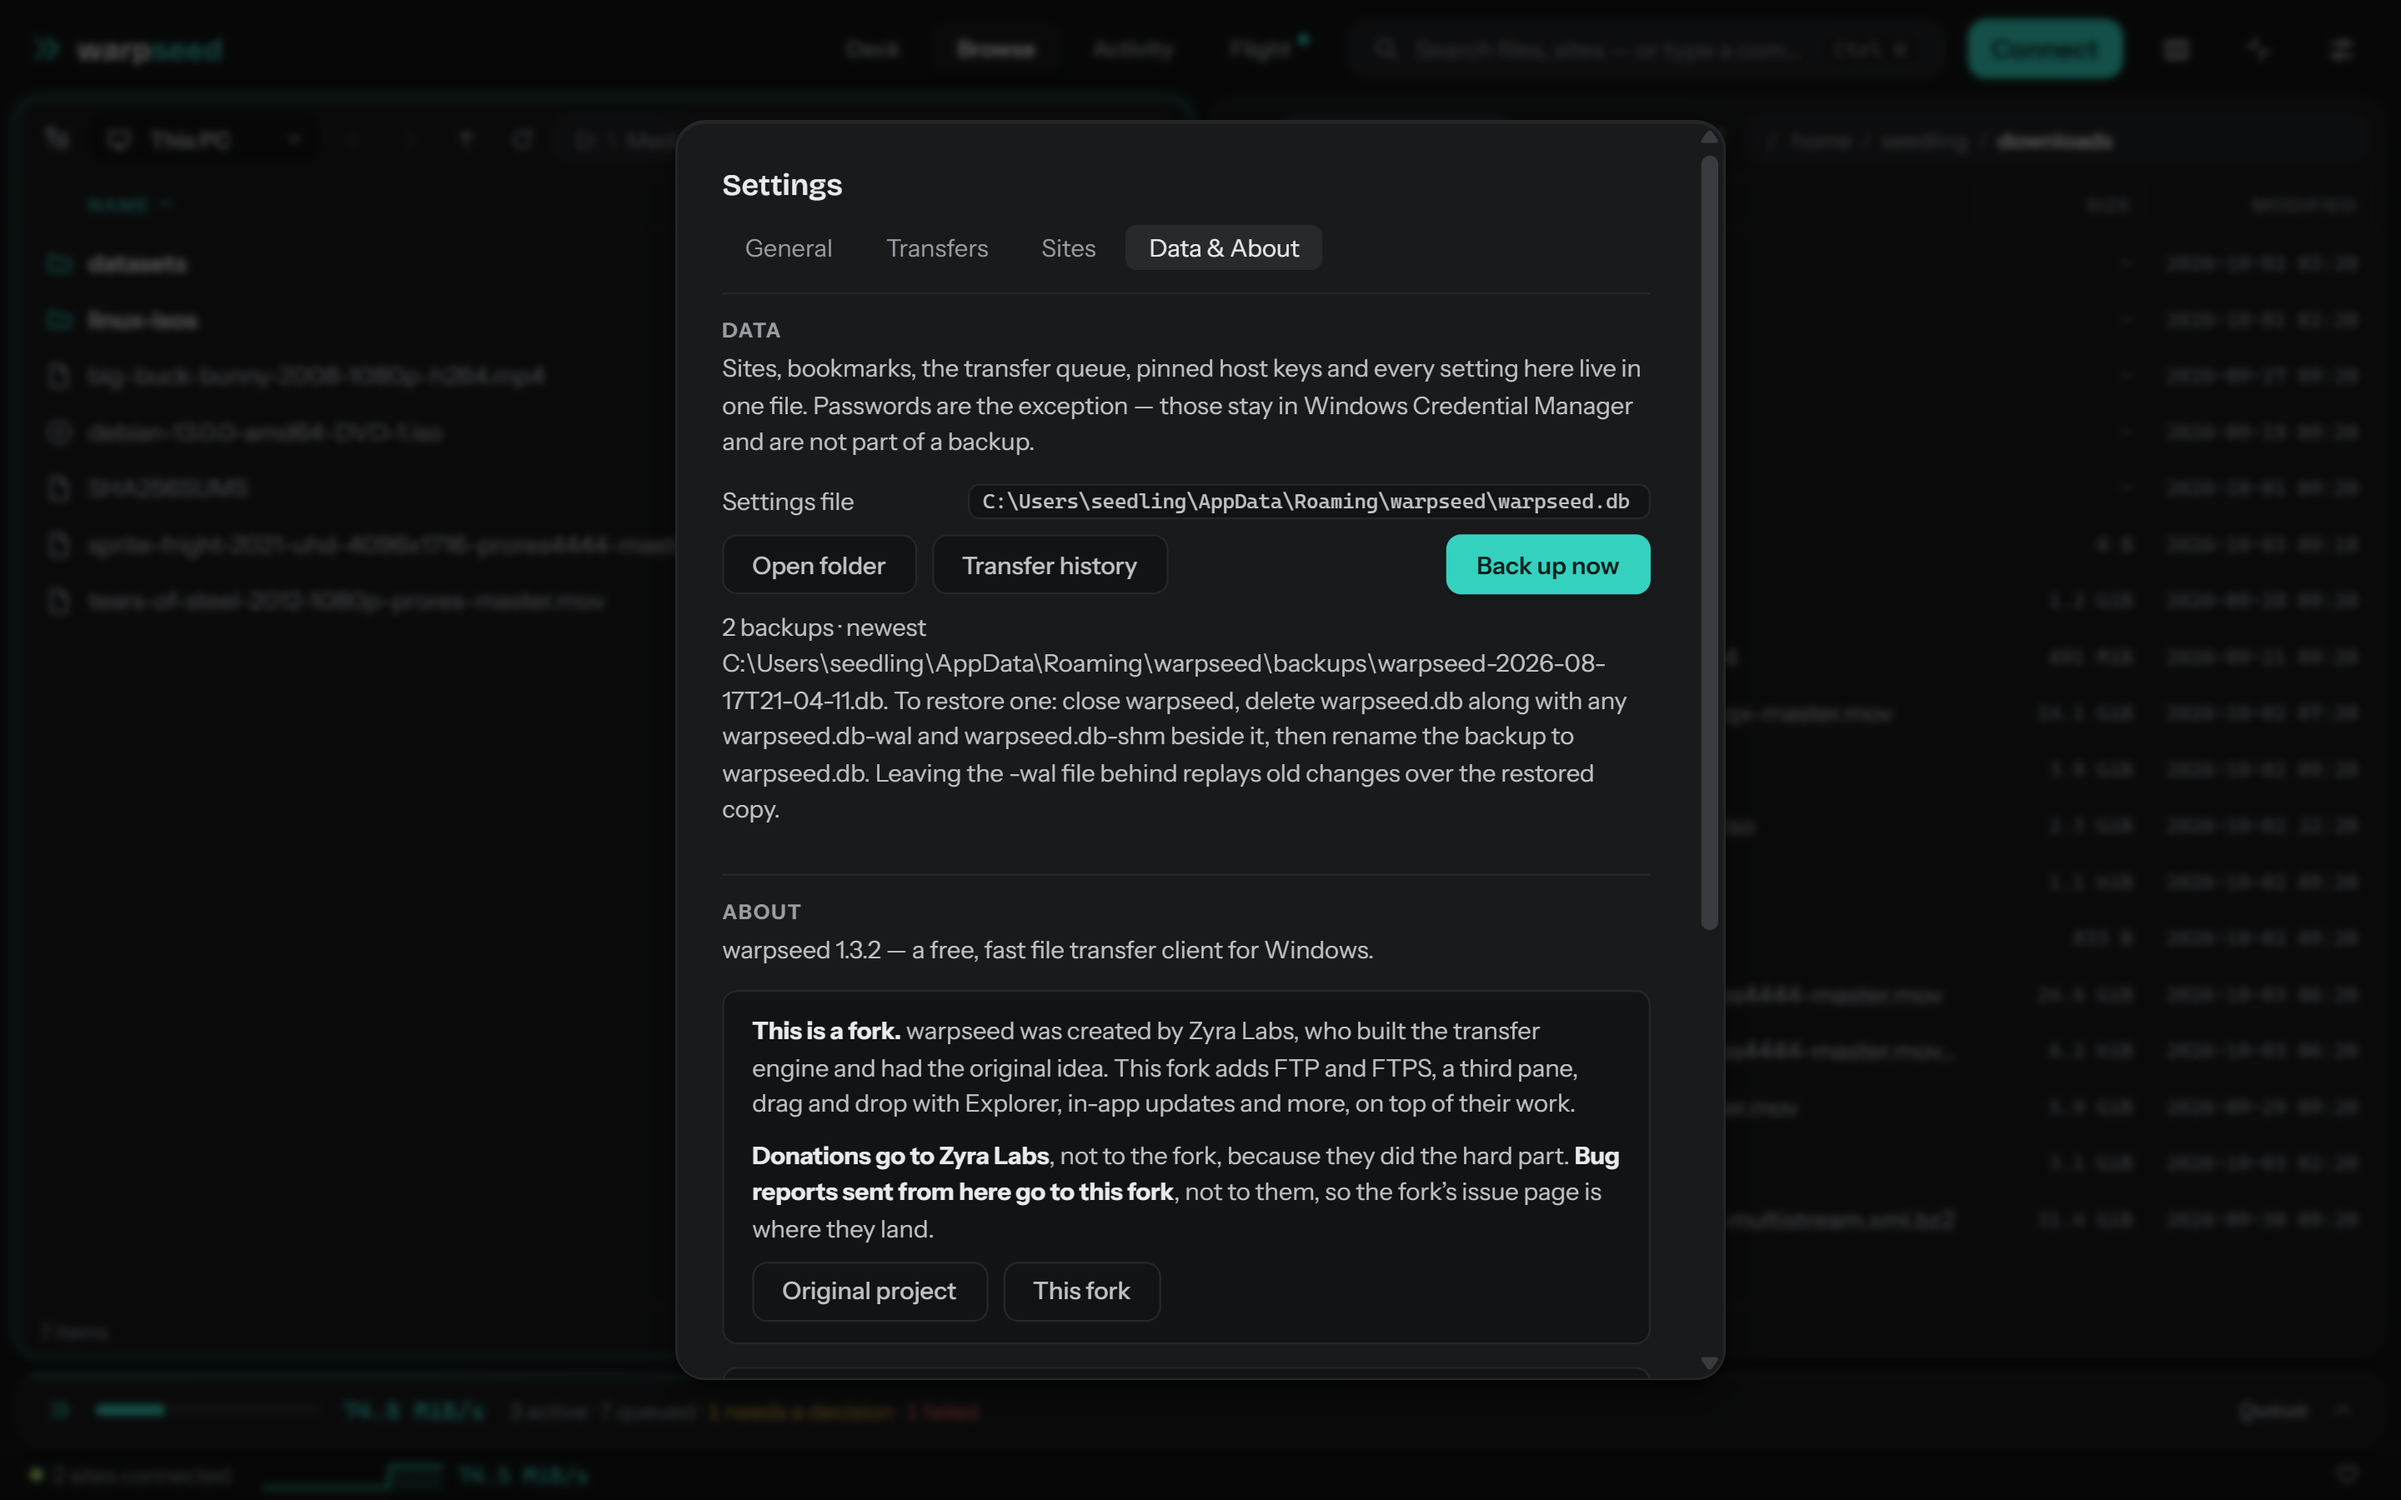
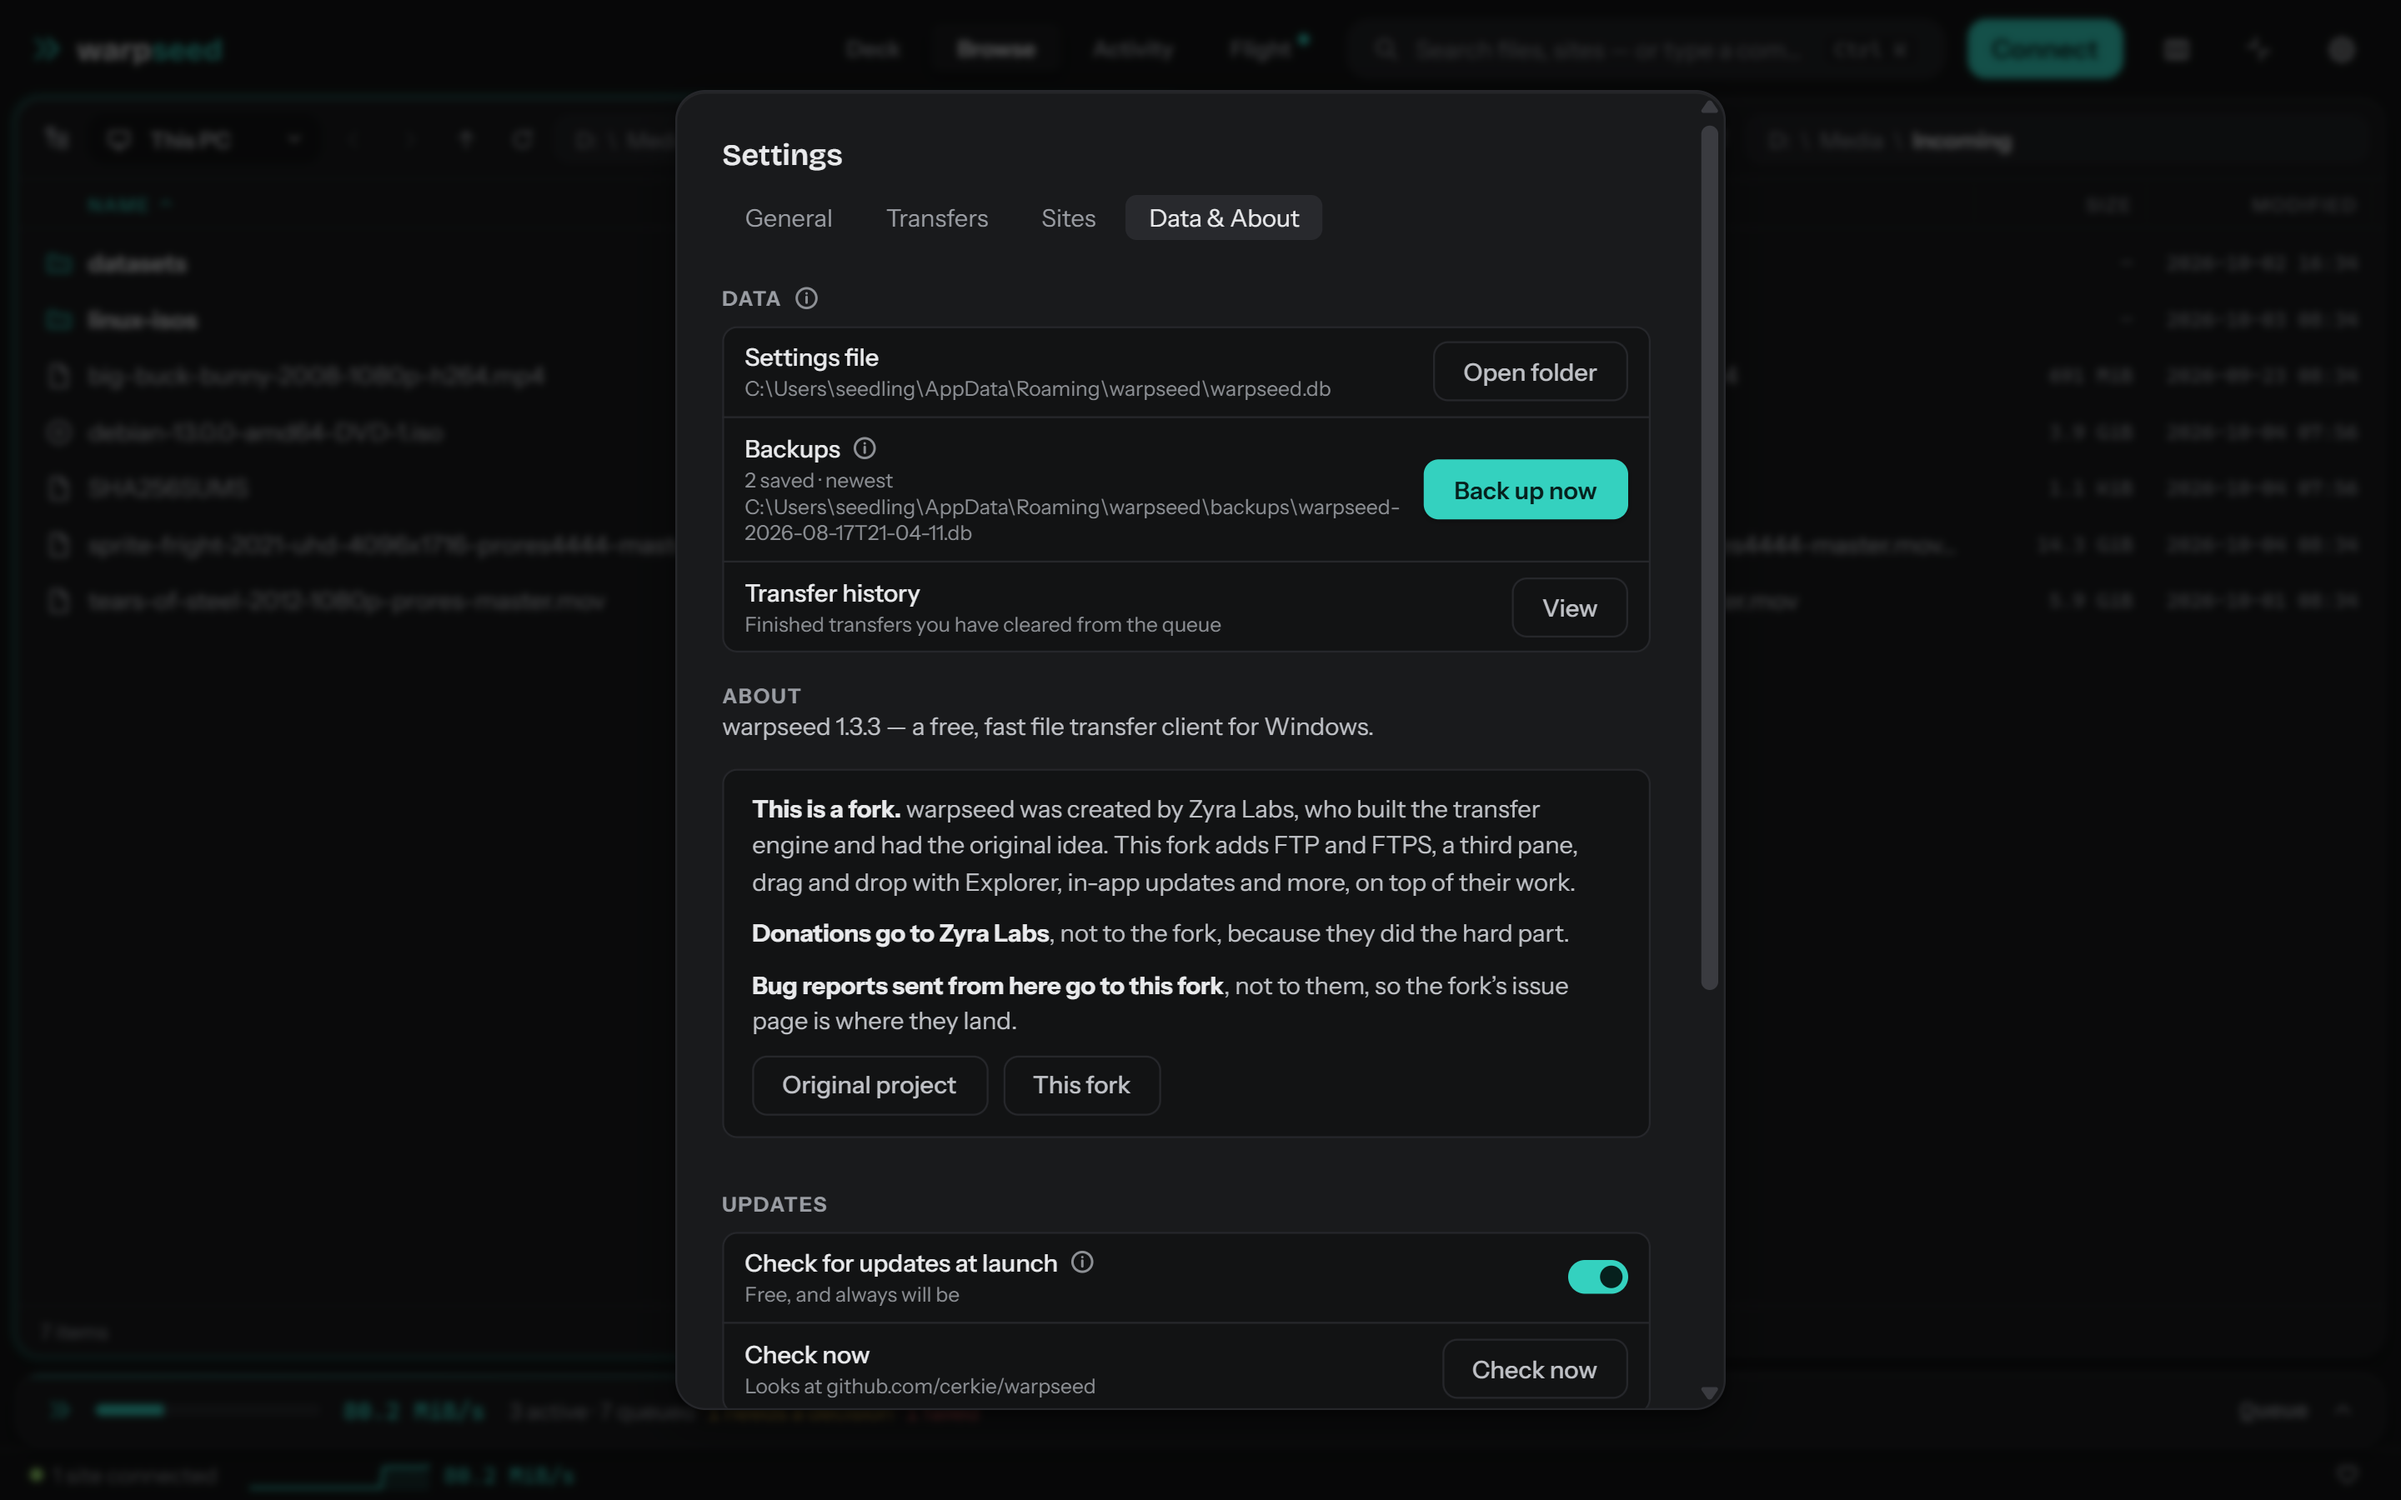
docs: new Settings screenshots for 1.3.3

diff --git a/docs/user-guide.md b/docs/user-guide.md
@@ -466,6 +466,8 @@ Open with **Ctrl+,** or the gear icon.
 Every setting is a row in a card: its name on the left, one control on the
 right. A small **i** next to a name explains it on hover.
 
+![Transfers settings](screenshots/settings-transfers.png)
+
 **Connections** — these are connection budgets, not file counts. A Hyperlane
 file spends one connection per lane, so the budget decides how many files
 run at once: 8 connections runs two 4-lane files, and a budget below the
